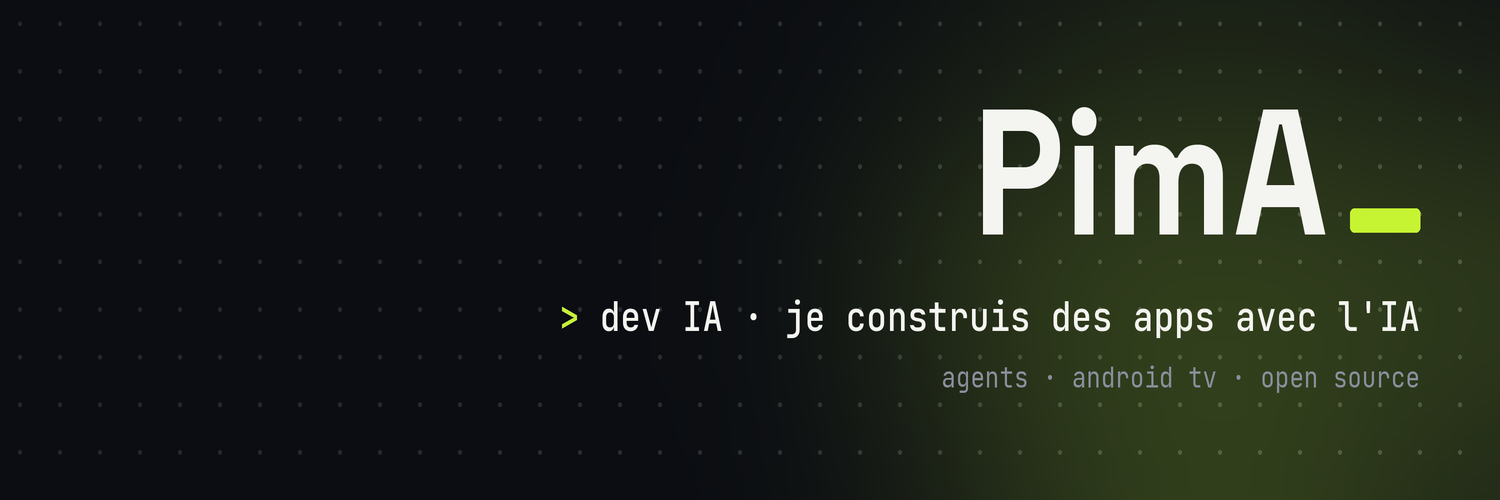
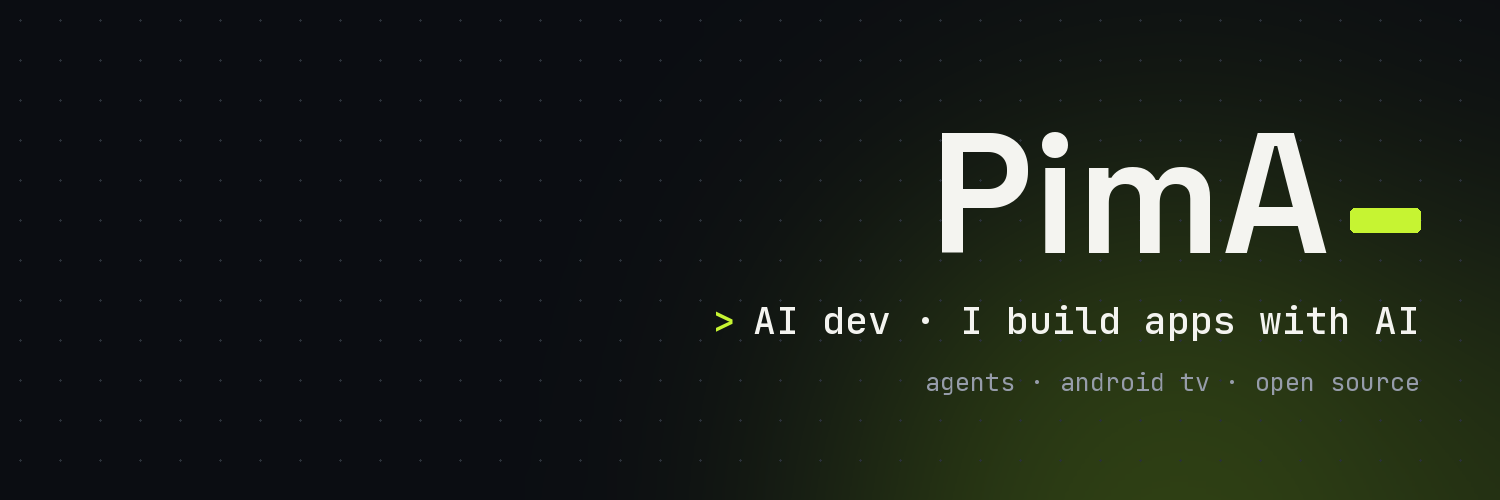
Profile in English, with the OwnYourTV links and Downloader code

Changed region(s): [[0.6133, 0.21, 0.8893, 0.51], [0.368, 0.6, 0.9507, 0.69], [0.6133, 0.72, 0.9507, 0.78]]

diff --git a/README.md b/README.md
@@ -1,30 +1,34 @@
 <p align="center">
-  <img src="assets/banner.png" alt="PimA, dev IA : je construis des apps avec l'IA" width="100%">
+  <img src="assets/banner.png" alt="PimA, AI dev: I build apps with AI" width="100%">
 </p>
 
-### Salut, moi c'est PimA
+### Hi, I'm PimA
 
-Je construis des apps avec l'IA, à Toulouse. Je pars d'une idée, je la conçois et je la livre jusqu'au bout :
-design, code, tests sur le vrai appareil, mise en ligne.
+I build apps with AI, from Toulouse. I take an idea all the way: design, code, tests on the real device, release.
 
 ---
 
-### Projet du moment : [OwnYourTV](https://github.com/pimado1/ownyourtv)
+### Project of the moment: [OwnYourTV](https://github.com/pimado1/ownyourtv)
 
 <a href="https://github.com/pimado1/ownyourtv"><img src="assets/ownyourtv.png" alt="OwnYourTV" width="100%"></a>
 
-**Tu l'as payée. Elle est à toi.** OwnYourTV coupe les pubs et le pistage installés d'usine sur les TV Android TV
-et Google TV, et leur donne un accueil vivant : un ciel de nuit, tes applis en cartes 3D, la météo. Tout se fait à
-la télécommande, sans ordinateur, en un clic, et un bouton remet tout comme avant. En 6 langues, open source.
+**You paid for it. Own it.** OwnYourTV switches off the ads and tracking that Android TV and Google TV sets come
+with, and gives them a living home screen: a night sky, your apps as a 3D deck, the weather. A step-by-step
+assistant does it all from the remote, no computer needed, and one button puts everything back.
+In 6 languages, open source (MIT), and it already recognises 345 TV models.
 
-**[Voir le projet](https://github.com/pimado1/ownyourtv)** · **[Télécharger](https://github.com/pimado1/ownyourtv/releases/latest)**
+<a href="https://github.com/pimado1/ownyourtv"><img src="https://raw.githubusercontent.com/pimado1/ownyourtv/main/docs/screenshots/before-after.jpg" alt="Before: the stock Google TV home full of ads. After: the OwnYourTV home." width="100%"></a>
+
+**Install from your TV:** in the Downloader app, type **`8225348`**
+
+**[See the project](https://github.com/pimado1/ownyourtv)** · **[Download the latest version](https://github.com/pimado1/ownyourtv/releases/latest)** · **[TVs it works on](https://github.com/pimado1/ownyourtv/issues?q=label%3Atv-report)**
 
 ---
 
-### Ce que j'utilise
+### What I use
 
-`Kotlin` · `Java` · `Android` · `Python` · `Claude Code` · `Git`
+`Kotlin` · `Java` · `Android` · `Python` · `Cloudflare Workers` · `Claude Code` · `Git`
 
-### Me suivre
+### Follow me
 
 [X / Twitter](https://x.com/PimAoff)
